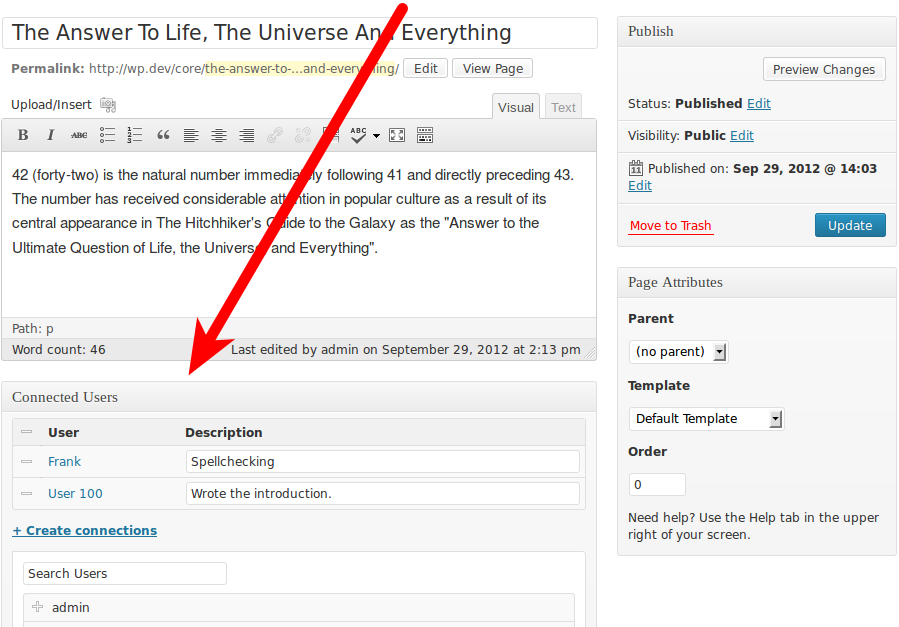
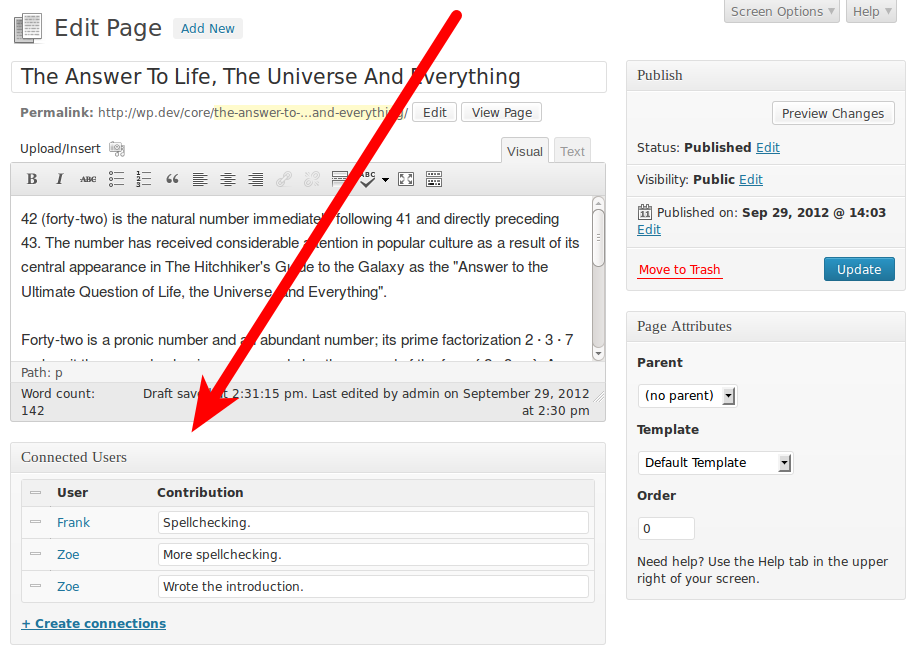
make metabox img fill the slide

diff --git a/slides/index.html b/slides/index.html
@@ -112,7 +112,7 @@
         &#39;to&#39;   =&gt; &#39;user&#39;,
         &#39;duplicate_connections&#39; =&gt; true,
         &#39;fields&#39; =&gt; array(
-            &#39;description&#39; =&gt; &#39;Description&#39;
+            &#39;contribution&#39; =&gt; &#39;Contribution&#39;
         )
     ) );
 }
@@ -126,10 +126,9 @@ add_action( &#39;p2p_init&#39;, &#39;page_contributors_ctype&#39; );</code></pre
 
 
 	</article>
-	<article class="nobackground vcentered">
+	<article class="nobackground fill">
 
 
-		<h3>P2P Admin UI</h3>
 
 
 		<img src="../assets/metabox.png" class="centered"/>

diff --git a/src/defining.md b/src/defining.md
@@ -8,7 +8,7 @@ function page_contributors_ctype() {
 		'to'   => 'user',
 		'duplicate_connections' => true,
 		'fields' => array(
-			'description' => 'Description'
+			'contribution' => 'Contribution'
 		)
 	) );
 }
